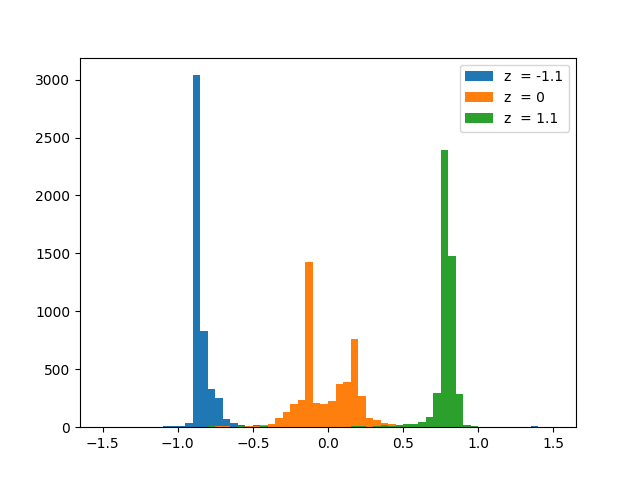
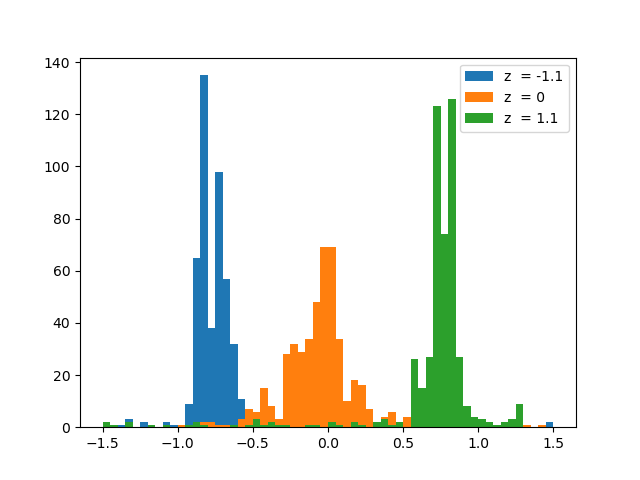
generic commit

diff --git a/scripts/transport/c_transport.py b/scripts/transport/c_transport.py
@@ -69,7 +69,7 @@ class CondTransportKernel(nn.Module):
 
 
     def p_vec(self, n):
-        return torch.full(n, 1/n, device=self.device, dtype=self.dtype)
+        return torch.full([n], 1/n, device=self.device, dtype=self.dtype)
 
 
     def init_Z(self):
@@ -194,7 +194,7 @@ class VAECondTransportKernel(nn.Module):
 
 
     def p_vec(self, n):
-        return torch.full(n, 1 / n, device=self.device, dtype=self.dtype)
+        return torch.full([n], 1 / n, device=self.device, dtype=self.dtype)
 
 
     def get_sig_base(self, n):
@@ -338,7 +338,7 @@ class VAECondTransportKernel(nn.Module):
 def base_kernel_transport(Y_eta, Y_mu, params, n_iter = 1001, Y_eta_test = []):
     transport_params = {'X': Y_eta, 'Y': Y_mu, 'reg_lambda': 1e-5,'normalize': False,
                    'fit_kernel_params': params['mmd'], 'mmd_kernel_params': params['fit'],
-                   'print_freq': 100, 'learning_rate': .1, 'nugget': 1e-4}
+                   'print_freq': 1, 'learning_rate': .1, 'nugget': 1e-4}
     if len(Y_eta_test):
         transport_params['Y_eta_test'] = Y_eta_test
     transport_kernel = TransportKernel(transport_params)
@@ -349,7 +349,7 @@ def base_kernel_transport(Y_eta, Y_mu, params, n_iter = 1001, Y_eta_test = []):
 def base_VAEkernel_transport(Y_eta, Y_mu, params, n_iter = 1001, Y_eta_test = []):
     transport_params = {'X': Y_eta, 'Y': Y_mu, 'reg_lambda': 1e-5,'normalize': False,
                    'fit_kernel_params': params['mmd'], 'mmd_kernel_params': params['fit'],
-                   'print_freq': 100, 'learning_rate': .1, 'nugget': 1e-4}
+                   'print_freq': 1, 'learning_rate': .1, 'nugget': 1e-4}
     if len(Y_eta_test):
         transport_params['Y_eta_test'] = Y_eta_test
     transport_kernel = VAETransportKernel(transport_params)
@@ -361,7 +361,7 @@ def base_VAEkernel_transport(Y_eta, Y_mu, params, n_iter = 1001, Y_eta_test = []
 def cond_kernel_transport(X_mu, Y_mu, Y_eta, params, n_iter = 10001, Y_eta_test = []):
     transport_params = {'X_mu': X_mu, 'Y_mu': Y_mu, 'Y_eta': Y_eta, 'reg_lambda': 1e-5,
                         'fit_kernel_params': params['mmd'], 'mmd_kernel_params': params['fit'],
-                        'print_freq': 100, 'learning_rate': .06, 'nugget': 1e-4}
+                        'print_freq': 1, 'learning_rate': .06, 'nugget': 1e-4}
     if len(Y_eta_test):
         transport_params['Y_eta_test'] = Y_eta_test
     ctransport_kernel = CondTransportKernel(transport_params)
@@ -372,7 +372,7 @@ def cond_kernel_transport(X_mu, Y_mu, Y_eta, params, n_iter = 10001, Y_eta_test 
 def cond_VAEkernel_transport(X_mu, Y_mu, Y_eta, params, n_iter = 10001, Y_eta_test = []):
     transport_params = {'X_mu': X_mu, 'Y_mu': Y_mu, 'Y_eta': Y_eta, 'reg_lambda': 1e-5,
                         'fit_kernel_params': params['mmd'], 'mmd_kernel_params': params['fit'],
-                        'print_freq': 100, 'learning_rate': .06, 'nugget': 1e-4}
+                        'print_freq': 1, 'learning_rate': .06, 'nugget': 1e-4}
     if len(Y_eta_test):
         transport_params['Y_eta_test'] = Y_eta_test
     ctransport_kernel = VAECondTransportKernel(transport_params)
@@ -449,8 +449,8 @@ def conditional_transport_exp(ref_gen, target_gen, N = 1000, n_iter = 1001, slic
     exp_params = {'fit': mmd_params, 'mmd': fit_params}
 
     trained_models = train_cond_transport(ref_gen, target_gen, exp_params, N, n_iter, process_funcs)
-                                          #base_model_trainer = base_VAEkernel_transport,
-                                          #cond_model_trainer = cond_VAEkernel_transport)
+                                          #,base_model_trainer = base_VAEkernel_transport
+                                          #,cond_model_trainer = cond_VAEkernel_transport)
 
     gen_sample = compositional_gen(trained_models, ref_gen(N))
 
@@ -481,7 +481,7 @@ def run():
     range = [[-2.5,2.5],[-1.1,1.1]]
     #process_funcs = [flip_2tensor, flip_2tensor ]
     process_funcs = []
-    conditional_transport_exp(ref_gen, target_gen, exp_name= 'mgan2', N = 5000, n_iter = 1000,
+    conditional_transport_exp(ref_gen, target_gen, exp_name= 'mgan2', N = 500, n_iter = 1000,
                               plt_range=range, process_funcs=process_funcs, slice_vals=[-1.1, 0, 1.1])
 
 

diff --git a/scripts/transport/transport_kernel.py b/scripts/transport/transport_kernel.py
@@ -149,7 +149,7 @@ class TransportKernel(nn.Module):
         self.test = False
         if 'Y_eta_test' in base_params.keys():
             self.test = True
-            self.Y_eta_test = geq_1d(torch.tensor(base_params['Y_eta_test'], device=self.device, dtype=self.dtype))
+            self.Y_eta_test = torch.tensor(base_params['Y_eta_test'], device=self.device, dtype=self.dtype)
 
         self.N = len(self.X)
         self.n = len(self.Y)
@@ -174,17 +174,15 @@ class TransportKernel(nn.Module):
         self.Z = nn.Parameter(self.init_Z(), requires_grad=True)
         self.mmd_YY = self.mmd_kernel(self.Y, self.Y)
 
-        #if self.params['alpha_x']:
-        #self.alpha_x = nn.Parameter(self.init_alpha_x(), requires_grad=True)
-        #else:
-        self.alpha_x = (1/self.N) * torch.ones(self.N, device = self.device, dtype = self.dtype)
 
-        #if not len(self.params['alpha_y']):
-           # self.alpha_y = (1 / self.n) * torch.ones(self.n, device=self.device, dtype=self.dtype)
-        #else:
-        self.alpha_y =(1/self.n) * torch.ones(self.N, device = self.device, dtype = self.dtype)
+        self.alpha_x = self.p_vec(self.N)
+        self.alpha_y =self.p_vec(self.n)
 
         self.E_mmd_YY = self.alpha_y.T @ self.mmd_YY @ self.alpha_y
+
+
+    def p_vec(self, n):
+        return torch.full([n], 1 / n, device=self.device, dtype=self.dtype)
 
 
     def init_Z(self):
@@ -201,10 +199,7 @@ class TransportKernel(nn.Module):
     def map(self, x):
         x = torch.tensor(x, device=self.device, dtype=self.dtype)
         Lambda = self.get_Lambda()
-        res =  (Lambda.T @ self.fit_kernel(self.X, x) + x.T)
-        #if self.params['alpha_x']:
-            #alpha_x_p = t_one_normalize((1 / self.N) * torch.exp(-self.alpha_x))
-            #res = t_resample(res, alpha_x_p)
+        res =  self.fit_kernel(self.X, x).T @ Lambda + x
         return res
 
 
@@ -241,14 +236,20 @@ class TransportKernel(nn.Module):
 
 
     def mmd(self, map_vec, target):
-        Y = target
-        normalization = self.N/(self.N-1)
+        Y = target.reshape(len(target))
+        map_vec = map_vec.reshape(len(map_vec))
 
-        k_YY_mean = torch.mean(self.mmd_kernel(Y,Y))
-        k_ZZ = self.mmd_kernel(map_vec, map_vec)
-        k_ZZ = k_ZZ - torch.diag(torch.diag(k_ZZ))
-        k_ZY =  self.mmd_kernel(Y, map_vec)
-        return normalization * (torch.mean(k_ZZ)) - 2 * torch.mean(k_ZY) + k_YY_mean
+        mmd_ZZ = self.mmd_kernel(map_vec, map_vec)
+        mmd_ZY = self.mmd_kernel(map_vec, Y)
+        mmd_YY = self.mmd_kernel(Y, Y)
+
+        alpha_y = self.p_vec(len(target))
+        alpha_z = self.p_vec(len(map_vec))
+
+        Ek_ZZ = alpha_z @ mmd_ZZ @ alpha_z
+        Ek_ZY = alpha_z @ mmd_ZY @ alpha_y
+        Ek_YY = alpha_y @ mmd_YY @ alpha_y
+        return Ek_ZZ - 2 * Ek_ZY + Ek_YY
 
 
     def loss_reg(self, Z = []):
@@ -270,7 +271,6 @@ class TransportKernel(nn.Module):
         target = self.Y
         map_vec = self.map(y_eta)
         return self.mmd(map_vec, target)
-
 
 
     def loss(self):

diff --git a/scripts/transport/K_VAE.py b/scripts/transport/K_VAE.py
@@ -67,6 +67,9 @@ class VAETransportKernel(nn.Module):
         self.alpha_y = (1 / self.n) * torch.ones(self.n, device=self.device, dtype=self.dtype)
         self.E_mmd_YY = self.alpha_y.T @ self.mmd_YY @ self.alpha_y
 
+    def p_vec(self, n):
+        return torch.full([n], 1 / n, device=self.device, dtype=self.dtype)
+
 
     def get_sig_base(self, n):
         sig_base = []
@@ -175,16 +178,25 @@ class VAETransportKernel(nn.Module):
 
         return Ek_ZZ - 2 * Ek_ZY + Ek_YY
 
+    #torch.Size([500])
+    #torch.Size([500, 1])
+    #torch.Size([500, 1])
 
     def mmd(self, map_vec, target):
-        Y = target
-        normalization = self.N/(self.N-1)
+        Y = target.reshape(len(target))
 
-        k_YY_mean = torch.mean(self.mmd_kernel(Y,Y))
-        k_ZZ = self.mmd_kernel(map_vec, map_vec)
-        k_ZZ = k_ZZ - torch.diag(torch.diag(k_ZZ))
-        k_ZY =  self.mmd_kernel(Y, map_vec)
-        return normalization * (torch.mean(k_ZZ)) - 2 * torch.mean(k_ZY) + k_YY_mean
+        mmd_ZZ = self.mmd_kernel(map_vec, map_vec)
+        mmd_ZY = self.mmd_kernel(map_vec, Y)
+        mmd_YY = self.mmd_kernel(Y, Y)
+
+        alpha_y = self.p_vec(len(target))
+        alpha_z = self.p_vec(len(map_vec))
+
+        Ek_ZZ = alpha_z @ mmd_ZZ @ alpha_z
+        Ek_YY = alpha_y @ mmd_YY @ alpha_y
+        Ek_ZY = alpha_z @ mmd_ZY @ alpha_y
+
+        return Ek_ZZ - 2 * Ek_ZY + Ek_YY
 
 
     def loss_reg(self, Z = []):
